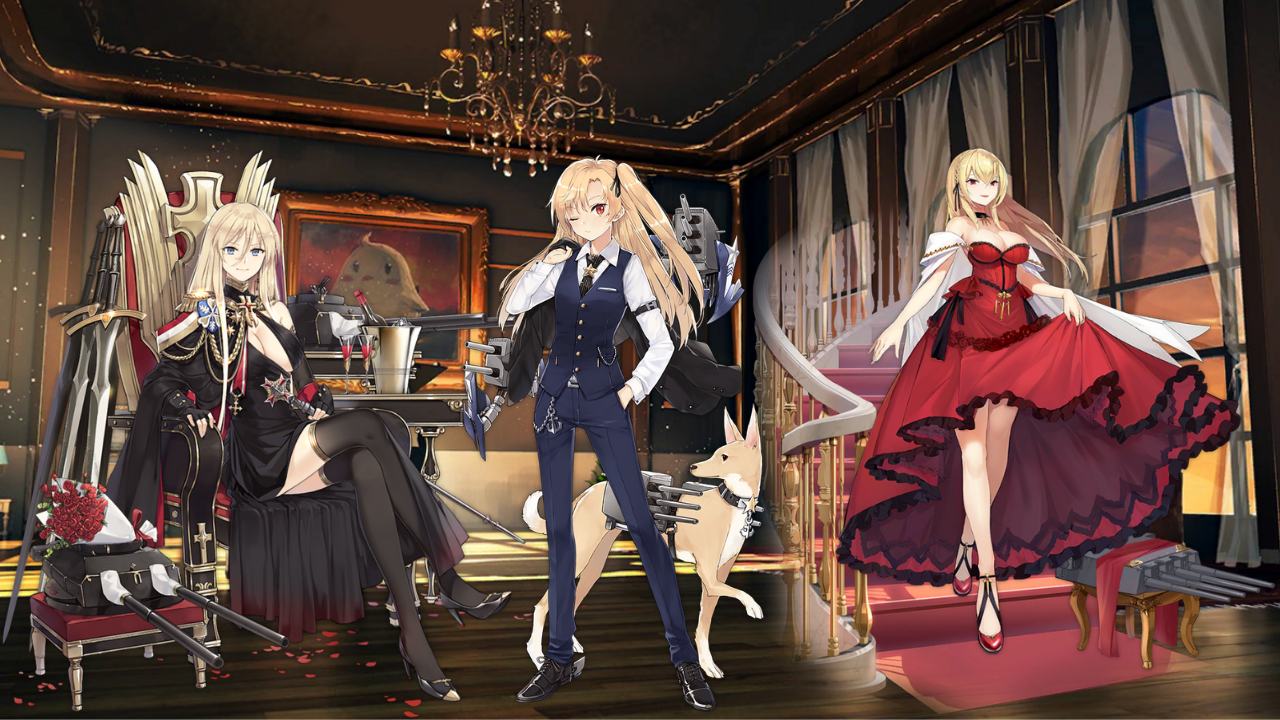
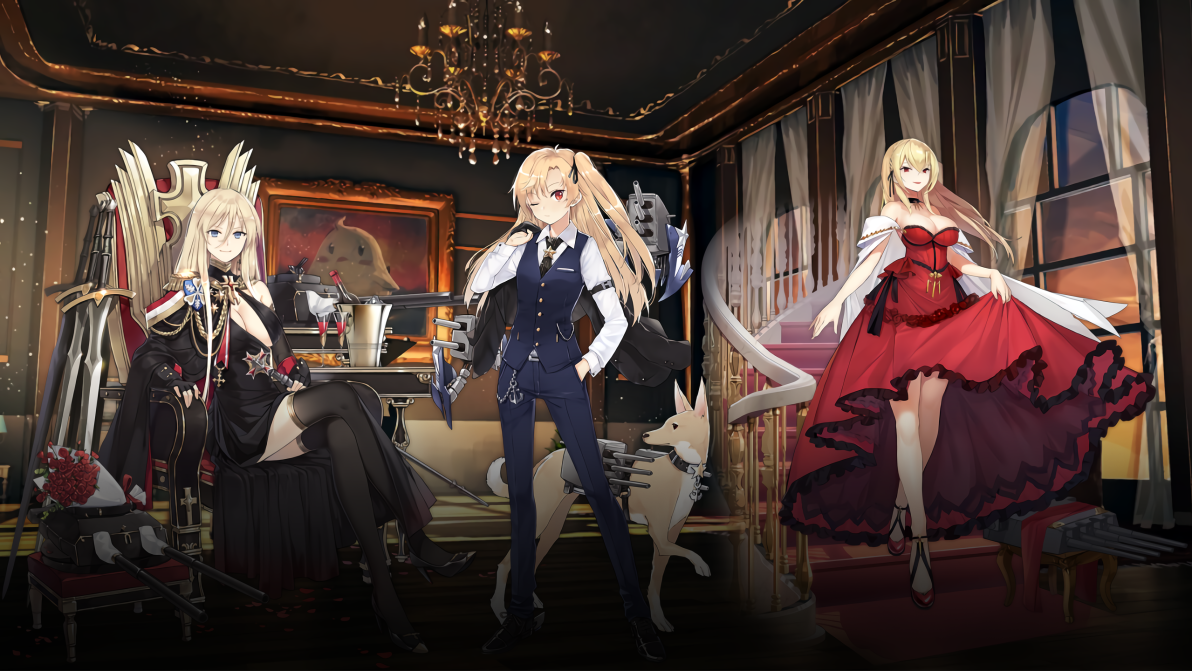
sui

diff --git a/static/index.html b/static/index.html
@@ -2,38 +2,30 @@
 
 <html>
 <head>
-	<title>HCI Project Portfolio</title>
+	<title>Kat Maga</title>
 	<meta charset="utf-8">
 	<link rel="stylesheet" href="css/mystyle.css">
 	<!-- this is a comment in HTML -->
    </head>
-<<<<<<< HEAD
-   <body background = "images/Party.png">
+   
 	<div>
 		<!-- h1 through h6 are headers. The higher the number, the smaller the header -->
 		<!-- p means paragraph -->
-		<div>
+		
 			<h1 align="center">Katrina Kin Maga - SF182</h1>
 			<img src="images/me.png">
+			
 			<p align="center">Be Normie or Be Weirdo</p>
-		</div>
-		<div>
-			<h1 align="center">My Weeb friends calls me:</h1>
-			<p align="center">Gudako or Monikat</p>
-		</div>
-		<div>
-			<h1 align="center">I am the George RR Martin of Memers Worldo Team</h1>
-			<p align="center">I made everyone cry due to my writing style. My friends won't forgive me for this. But proud of it.</p>
-		</div>
-		<div>
-			<h1 align="center">I love Space Battle</h1>
-			<p align="center">Watching too much Space Battle makes me feel I want to build one. I do tons of stories about it.</p>
-		</div>
-		<div>
-			<h1 align="center">I play games A LOT</h1>
-			<p align="center">I love strategy games it really challenges my mind and my limits on how to manage.</p>
-		</div>
+			
+			
+		<article>
+    <h1>Writer and Gamer</h1>
+    <p>I'm writing a lot of fan fics and original stories and shares it online and discord servers.</p>
+    <p>I like games that are RTS and Grand RTS. I also enjoy FPS games.</p>
+  </article>
 
+  
+		<div>
 		<h1 align="center">The Games I'm playing</h4>
 		<!-- divs are invisible structuring elements that stack vertically by default. Use them to organize your code -->
 		<!-- img tags are images. Lorem Pixel will deliver random images; handy! -->
@@ -75,7 +67,4 @@
 
 
 </body>
-<footer> <p> Zeppy
-<img src="images/steam.png" alt="Steam">
-</footer>
 </html>

diff --git a/static/css/mystyle.css b/static/css/mystyle.css
@@ -4,20 +4,25 @@ html {
 		}
 
 body {
-
+	background-image: url("../images/Party.png");
 	background-color: black;
-  background-size: auto;
+  background-size: 1720px 800px;
   background-repeat: no-repeat;
-
-	background-color: white;
-	background-size: cover;
-	background-repeat: no-repeat;
 	background-attachment: scroll;
 
   margin: 0;
   padding: 0;
   }
   
+article {
+  float: center;
+  padding: 20px;
+  width: 50%;
+  background-color: black;
+  margin-left: auto;
+margin-right: auto;
+
+} 
 img {
   display: block;
   margin-left: auto;
@@ -42,11 +47,12 @@ h3{
 	margin-bottom: 0;
 	color: white;
 	}	
- .slider-holder
+ 
+  .slider-holder
         {
             width: 800px;
             height: 400px;
-            background-color: red;
+            background-color: yellow;
             margin-left: auto;
             margin-right: auto;
             margin-top: 0px;
@@ -103,14 +109,13 @@ h3{
             height: 10px;
             width: 10px;
             border-radius: 5px;
-            background-color: brown;
+            background-color: red;
         }
-		
-		/* Three image containers (use 25% for four, and 50% for two, etc) */
 .column {
   float: left;
-  width: 40.33%;
+  width: 33.33%;
   padding: 5px;
+  
 }
 
 /* Clear floats after image containers */
@@ -124,9 +129,7 @@ h3{
   left: 0;
   bottom: 0;
   width: 100%;
-  background-color: red;
-  color:black;
-  text-align: center;
+  background-color: black;
+  color: white;
+  text-align: left;
 }
-
-	
